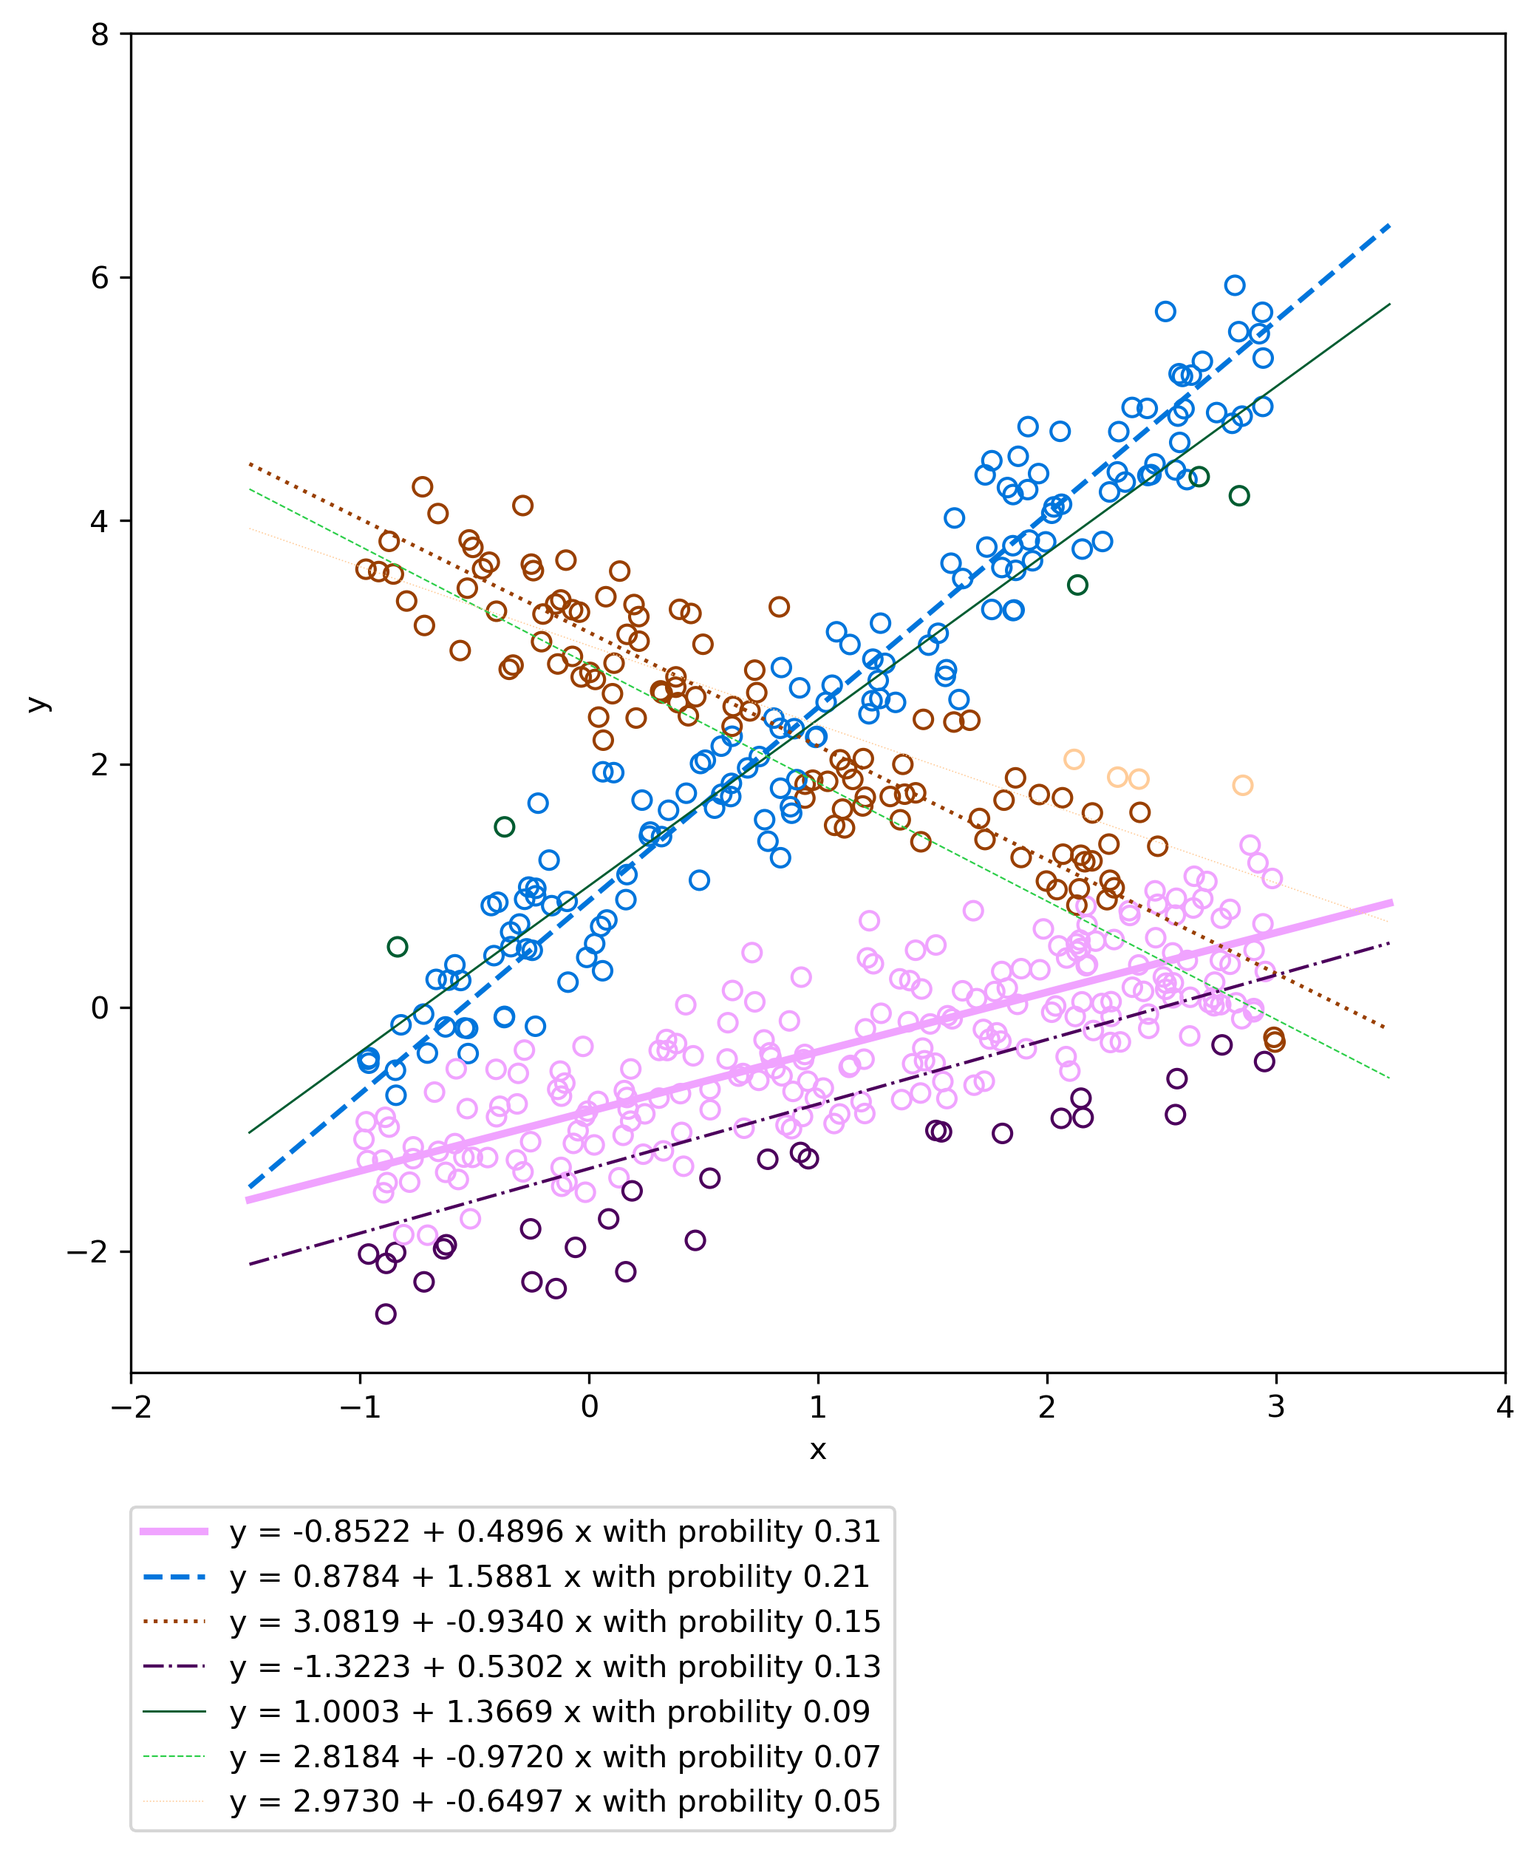
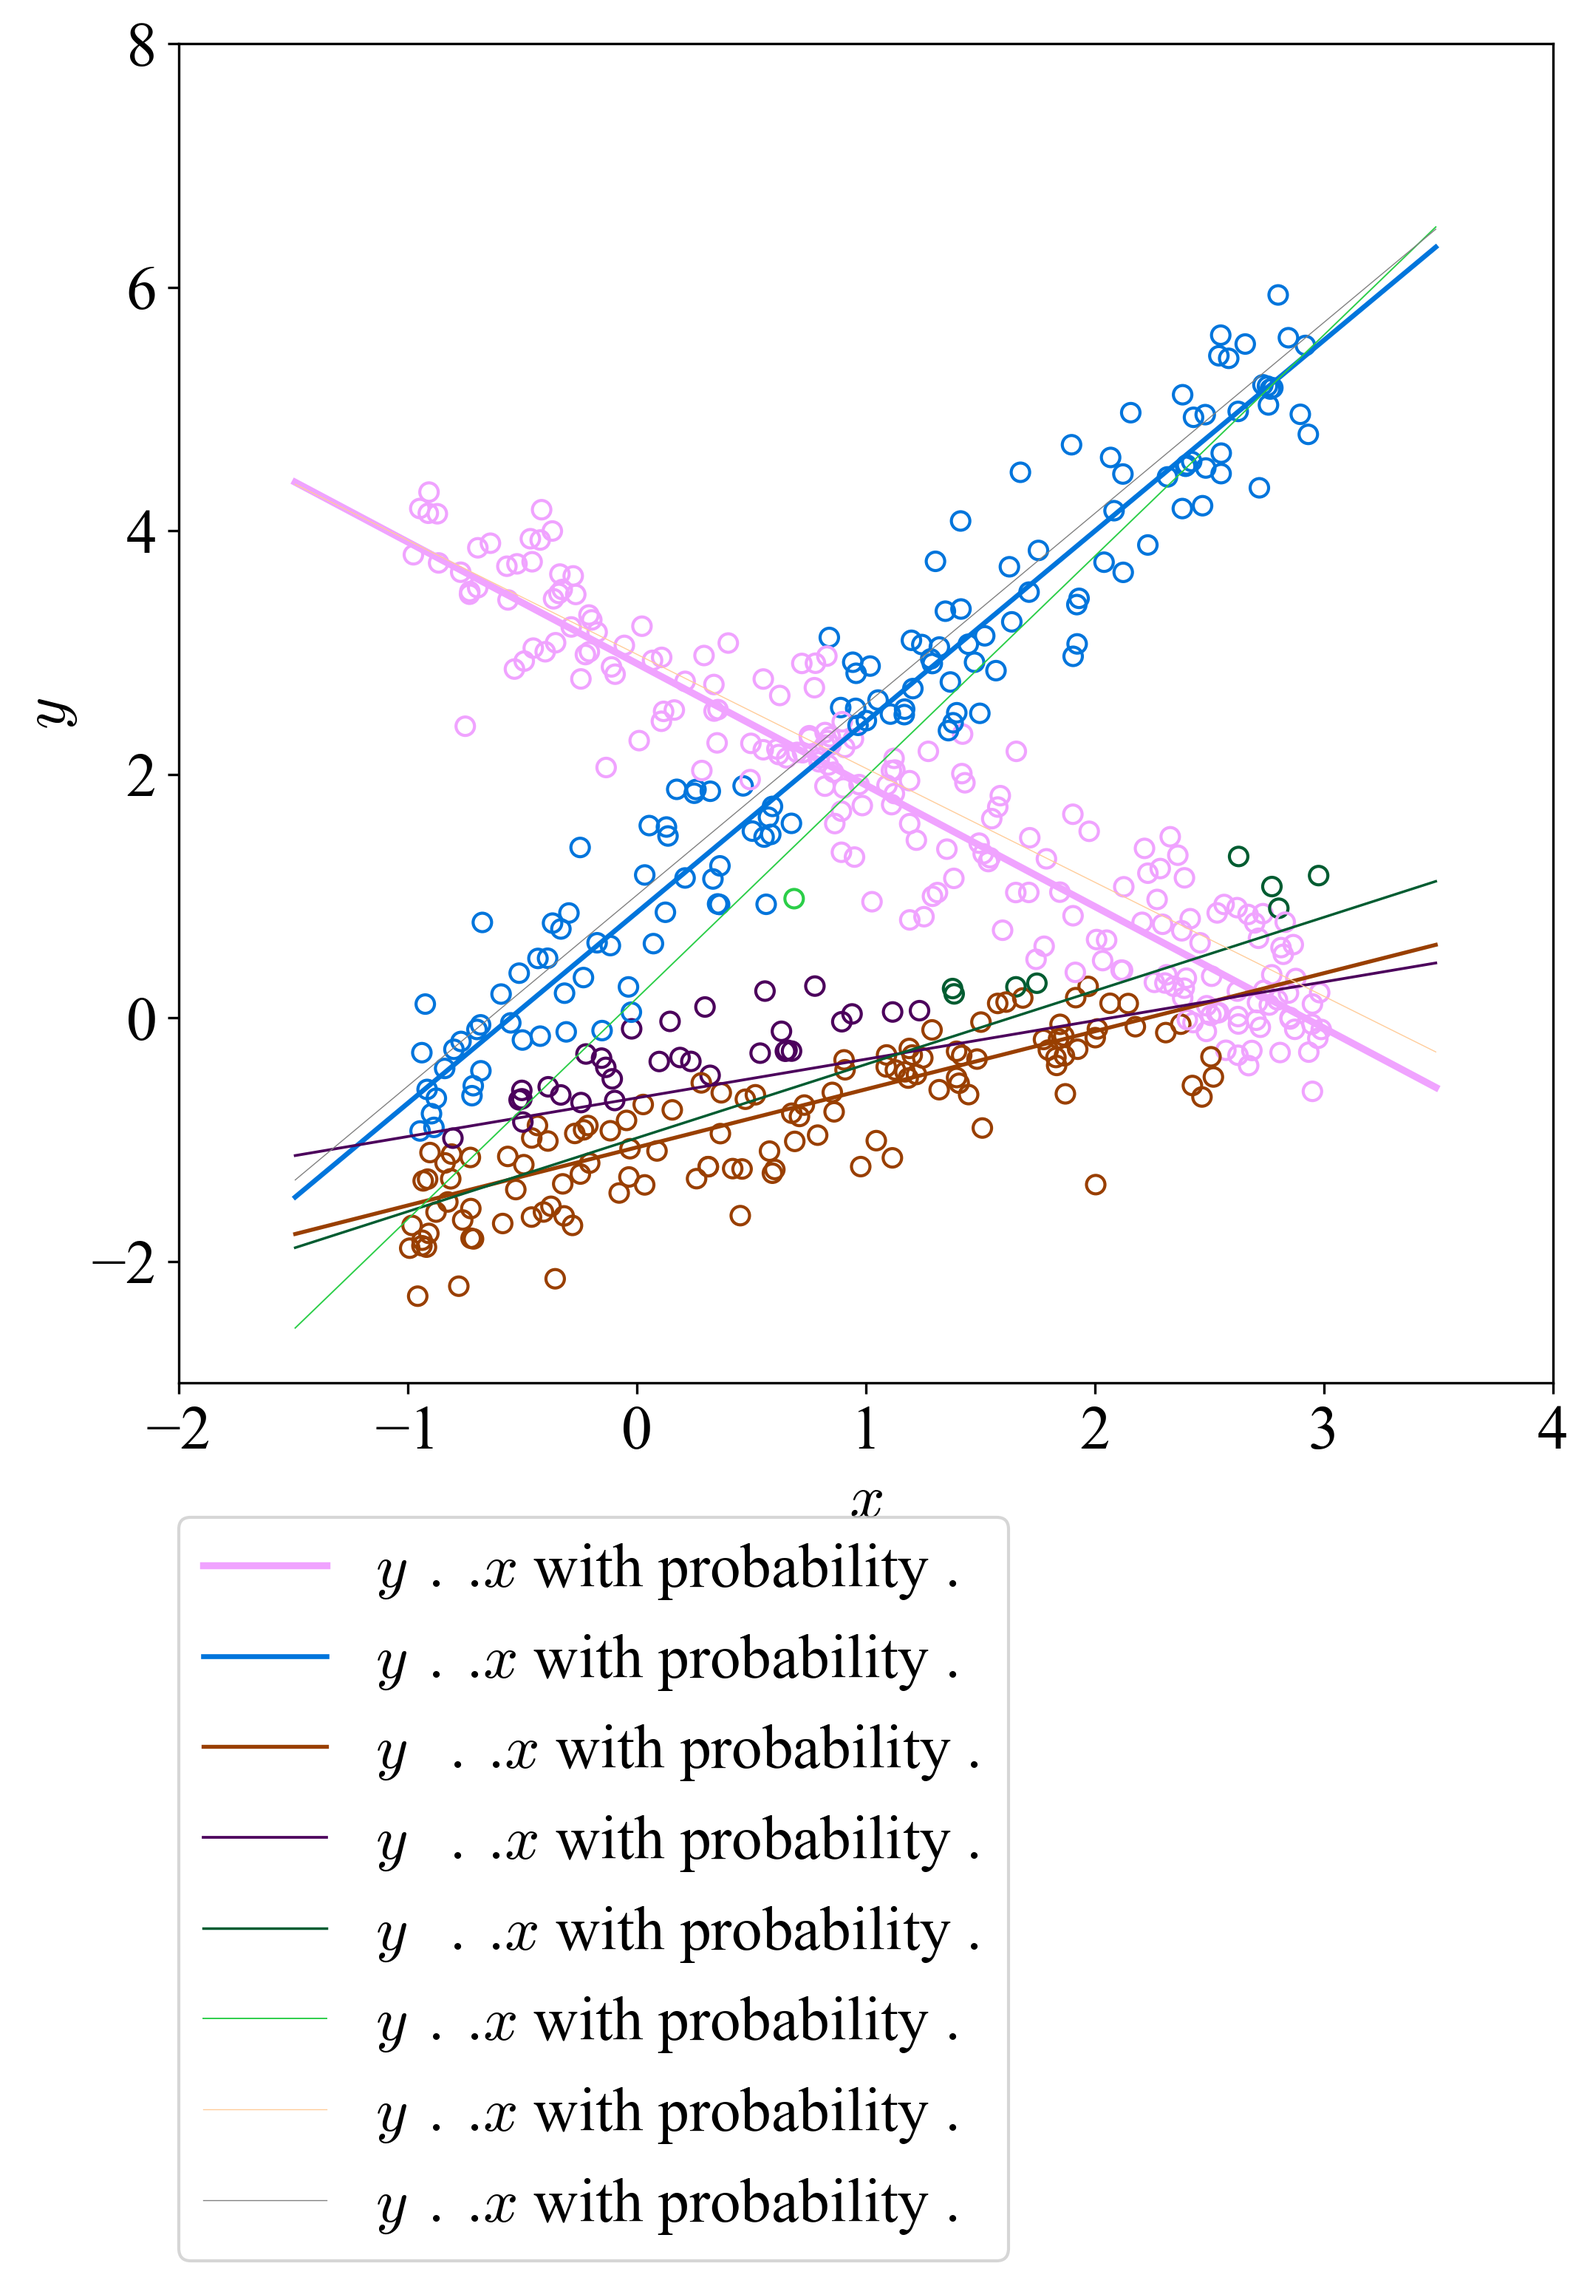
updates
change plots preferences:
1. threshold probability of plotting
2. change threshold probability in pruning

diff --git a/scripts/simulation_lib.py b/scripts/simulation_lib.py
@@ -95,7 +95,7 @@ def test(X,y,C, n,iter, b1, b2, b3,pi1,pi2,sigma,sigma_est,BL,BR):
     ax.set_ylim([-3,8])
     ax.set_xlabel(r'$x$')
     ax.set_ylabel(r'$y$')
-    lgd = ax.legend(loc=2, bbox_to_anchor=(0., -0.1),borderaxespad=0.);
+    lgd = ax.legend(loc=2, bbox_to_anchor=(0., -0.11),borderaxespad=0.);
     plt.savefig('./../pics/%s_noisy.png'%fname, dpi = 300, bbox_extra_artists=(lgd,), bbox_inches='tight')
     #plt.show();
 
@@ -133,7 +133,7 @@ def test(X,y,C, n,iter, b1, b2, b3,pi1,pi2,sigma,sigma_est,BL,BR):
                                   r'$y = %.2f  %+.2f x$ with probability $%.2f$' %(b2[0], b2[1], pi2),
                                   r'$y = %.2f  %+.2f x$ with probability $%.2f$' %(b3[0], b3[1], 1-pi1-pi2),
                                    #'NPMLE component'#, 'OLS'#
-                                 ],loc = 2,bbox_to_anchor=(0., -0.1),borderaxespad=0.);
+                                 ],loc = 2,bbox_to_anchor=(0., -0.11),borderaxespad=0.);
     else:
         custom_lines = [(Line2D([], [], color='red', marker='o',markerfacecolor = 'None', linestyle=line_styles[0],linewidth = 8*pi1),Line2D([], [], color='red')),
                         (Line2D([], [], color='blue', marker='o',markerfacecolor = 'None', linestyle=line_styles[1],linewidth = 8*pi2),Line2D([], [], color='blue')),
@@ -146,7 +146,7 @@ def test(X,y,C, n,iter, b1, b2, b3,pi1,pi2,sigma,sigma_est,BL,BR):
                                   r'$y = %.2f  %+.2f x$ with probability $%.2f$' %(b2[0], b2[1], pi2),
                                 
                                    #'NPMLE component'#, 'OLS'#
-                                 ],loc=2,bbox_to_anchor=(0., -0.1),borderaxespad=0.);
+                                 ],loc=2,bbox_to_anchor=(0., -0.11),borderaxespad=0.);
     ax = plt.gca()
     ax.set_xlim([-2,4])
     ax.set_ylim([-3,8])
@@ -179,6 +179,7 @@ def test(X,y,C, n,iter, b1, b2, b3,pi1,pi2,sigma,sigma_est,BL,BR):
     count = 0 
     for i in index_sort:
         b = B[:,i]
+        # select component with mixing probability above certain thresholds
         if alpha[i] >threprob:
             component_plot.append(i)
             component_color.append(temp)
@@ -213,7 +214,7 @@ def test(X,y,C, n,iter, b1, b2, b3,pi1,pi2,sigma,sigma_est,BL,BR):
     ax.set_ylim([-3,8])
     ax.set_xlabel(r'$x$')
     ax.set_ylabel(r'$y$')
-    lgd = ax.legend(loc=2, bbox_to_anchor=(0., -0.1),borderaxespad=0.);
+    lgd = ax.legend(loc=2, bbox_to_anchor=(0., -0.11),borderaxespad=0.);
     plt.savefig('./../pics/%s_fitted.png'%fname, dpi = 300, bbox_extra_artists=(lgd,), bbox_inches='tight')
     # plt.show();
       
@@ -314,7 +315,7 @@ def generate_and_test(n,iter, b1, b2, b3,pi1,pi2,sigma,sigma_est,BL,BR):
     ax.set_ylim([-3,8])
     ax.set_xlabel(r'$x$')
     ax.set_ylabel(r'$y$')
-    lgd = ax.legend(loc=2, bbox_to_anchor=(0., -0.1),borderaxespad=0.);
+    lgd = ax.legend(loc=2, bbox_to_anchor=(0., -0.11),borderaxespad=0.);
     plt.savefig('./../pics/%s_noisy.png'%fname, dpi = 300, bbox_extra_artists=(lgd,), bbox_inches='tight')
     # plt.show();
     
@@ -352,7 +353,7 @@ def generate_and_test(n,iter, b1, b2, b3,pi1,pi2,sigma,sigma_est,BL,BR):
                                   r'$y = %.2f %+.2f x$ with probability $%.2f$' %(b2[0], b2[1], pi2),
                                   r'$y = %.2f %+.2f x$ with probability $%.2f$' %(b3[0], b3[1], 1-pi1-pi2),
                                    #'NPMLE component'#, 'OLS'#
-                                 ],loc = 2,bbox_to_anchor=(0., -0.1),borderaxespad=0.);
+                                 ],loc = 2,bbox_to_anchor=(0., -0.11),borderaxespad=0.);
     else:
         custom_lines = [(Line2D([], [], color='red', marker='o',markerfacecolor = 'None', linestyle=line_styles[0],linewidth = 8*pi1),Line2D([], [], color='red')),
                         (Line2D([], [], color='blue', marker='o',markerfacecolor = 'None', linestyle=line_styles[1],linewidth = 8*pi2),Line2D([], [], color='blue')),
@@ -365,7 +366,7 @@ def generate_and_test(n,iter, b1, b2, b3,pi1,pi2,sigma,sigma_est,BL,BR):
                                   r'$y = %.2f  %+.2f x$ with probability $%.2f$' %(b2[0], b2[1], pi2),
                                 
                                    #'NPMLE component'#, 'OLS'#
-                                 ],loc=2,bbox_to_anchor=(0., -0.1),borderaxespad=0.);
+                                 ],loc=2,bbox_to_anchor=(0., -0.11),borderaxespad=0.);
     ax = plt.gca()
     ax.set_xlim([-2,4])
     ax.set_ylim([-3,8])
@@ -432,7 +433,7 @@ def generate_and_test(n,iter, b1, b2, b3,pi1,pi2,sigma,sigma_est,BL,BR):
     ax.set_ylim([-3,8])
     ax.set_xlabel(r'$x$')
     ax.set_ylabel(r'$y$')
-    lgd = ax.legend(loc=2, bbox_to_anchor=(0., -0.1),borderaxespad=0.);
+    lgd = ax.legend(loc=2, bbox_to_anchor=(0., -0.11),borderaxespad=0.);
     plt.savefig('./../pics/%s_fitted.png'%fname, dpi = 300, bbox_extra_artists=(lgd,), bbox_inches='tight')
     # plt.show();
     

diff --git a/scripts/alg1_lib.py b/scripts/alg1_lib.py
@@ -178,13 +178,13 @@ def NPMLE_FW(X,y,iter,sigma,BL,BR):
         #fully corrective step wrt current active set P
         f, alpha = FW_FC(f,alpha,P,n)
         
-        #prune P by deleting columns corresponding to zero alpha
+        #prune P by deleting columns corresponding to very small alpha
         P_prune = np.zeros((n,1))
         B_prune = np.zeros((p,1))
         alpha_prune = np.zeros((1,))
         flag = 0
         for i in range(len(P[0])):
-            if alpha[i] > 0:
+            if alpha[i] > 0.01:
                 if flag == 0:
                     P_prune[:,0] = P[:,i].ravel()
                     B_prune[:,0] = B[:,i].ravel()

diff --git a/scripts/run_parallel.py b/scripts/run_parallel.py
@@ -14,7 +14,8 @@ if __name__ == "__main__":
     exp_type = sys.argv[2]
 
 if exp_type == 'discrete':
-    # directly run with reported sigma value chosen by cross-validation
+    # directly run with reported sigma value 
+    # (reported sigma were previously chosen by cross-validation)
     params_ = ' '+'0.5' + ' ' + '500' + ' ' + '1' + ' ' + '0.42'
     os.system("python " + filename + params_ + '&')
     params_ = ' '+'0.5' + ' ' + '300' + ' ' + '2' + ' ' + '0.34'
